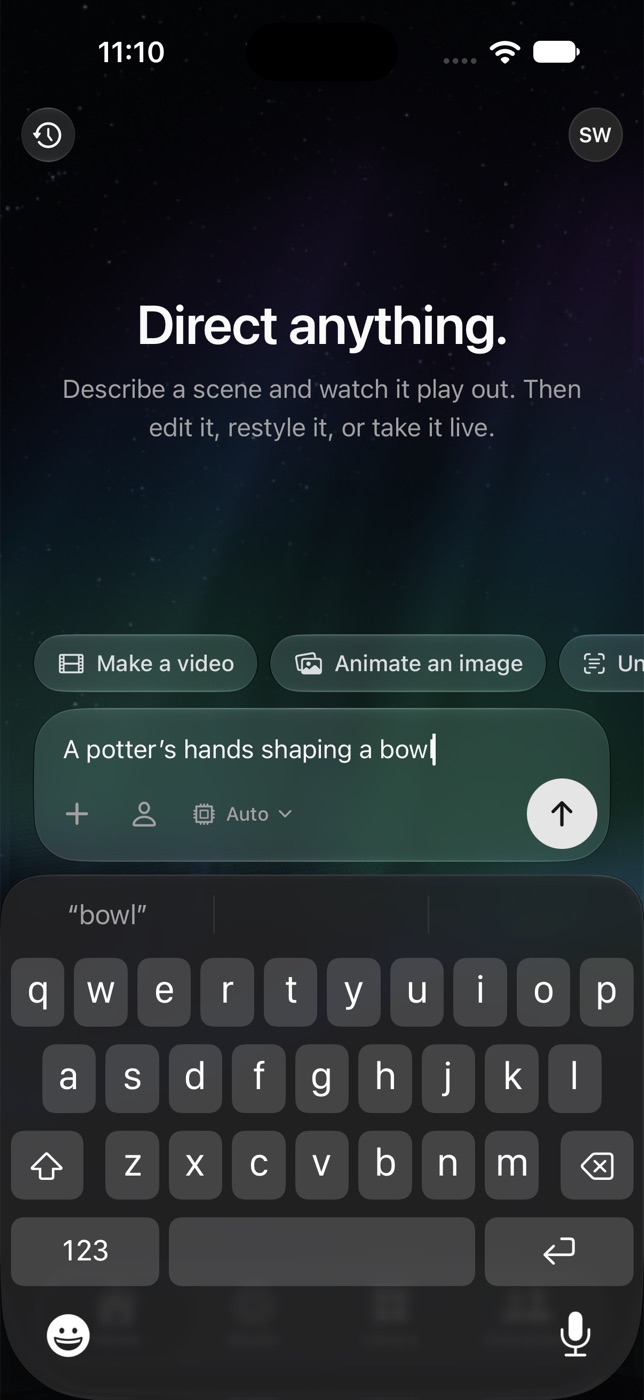
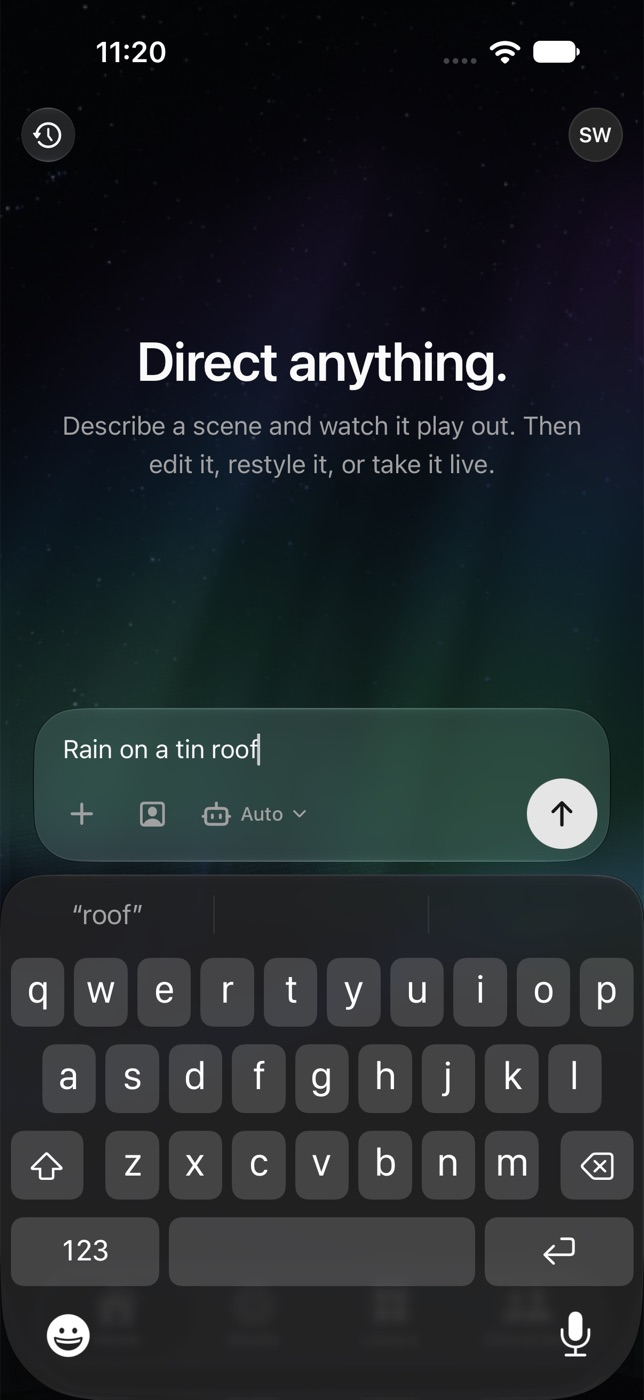
feat(ios): bring the composer up to what a thumb and a text field expect
Controls answer at 44 points, empty space in the composer starts typing,
starting points step aside once there are words, the tool row degrades
instead of clipping, and Command-Return sends.

diff --git a/apps/ios/Livepeer/Features/Composer/Composer.swift b/apps/ios/Livepeer/Features/Composer/Composer.swift
@@ -79,45 +79,59 @@ struct Composer: View {
             .padding(.horizontal, 10)
             .padding(.top, 8)
             .padding(.bottom, 4)
-            // The placeholder can wrap past the field's one line; a tap anywhere on it starts typing.
+            // Any part of the composer that isn't a control starts typing, as a text field would.
             .contentShape(Rectangle())
             .onTapGesture { focused.wrappedValue = true }
 
             // Everything besides words sits under them, as on the web: what to add on the left, send on the right.
-            HStack(spacing: 4) {
-                tool("plus", label: "Attach from your library", action: choices.attach)
-                if choices.casting {
-                    // A portrait in a frame: the character's portrait becomes the first frame of the shot.
-                    tool(draft.cast == nil ? "person.crop.square" : "person.crop.square.fill", label: "Put a character in it", on: draft.cast != nil, action: choices.castCharacter)
-                }
-                if choices.models.count >= 2 { modelMenu }
-                // Parameters appear with intent: only once the request is a video.
-                if draft.isVideo {
-                    Menu {
-                        Picker("Shape", selection: $draft.aspect) {
-                            ForEach(Self.aspects, id: \.self) { Text($0).tag($0) }
-                        }
-                    } label: {
-                        parameter(draft.aspect)
-                    }
-                    .accessibilityLabel("Shape, \(draft.aspect)")
-                    Menu {
-                        Picker("Length", selection: $draft.durationSeconds) {
-                            ForEach(Self.durations, id: \.self) { Text("\(Int($0)) seconds").tag($0) }
-                        }
-                    } label: {
-                        parameter("\(Int(draft.durationSeconds))s")
-                    }
-                    .accessibilityLabel("Length, \(Int(draft.durationSeconds)) seconds")
-                }
-                Spacer(minLength: 0)
-                sendButton
+            // When the row can't hold it all, at a large text size or with a long model name, the model
+            // menu drops to its mark alone rather than anything being cut off.
+            ViewThatFits(in: .horizontal) {
+                tools(modelNamed: true)
+                tools(modelNamed: false)
             }
         }
         .animation(motion(.morph), value: draft.isVideo)
         .animation(motion(.morph), value: draft.attachments.count + (draft.cast == nil ? 0 : 1))
         .padding(8)
         .glass(in: RoundedRectangle(cornerRadius: Radius.sheet, style: .continuous))
+    }
+
+    private func tools(modelNamed: Bool) -> some View {
+        HStack(spacing: 0) {
+            tool("plus", label: "Attach from your library", action: choices.attach)
+            if choices.casting {
+                // A portrait in a frame: the character's portrait becomes the first frame of the shot.
+                tool(draft.cast == nil ? "person.crop.square" : "person.crop.square.fill", label: "Put a character in it", on: draft.cast != nil, action: choices.castCharacter)
+            }
+            if choices.models.count >= 2 { modelMenu(named: modelNamed) }
+            // Parameters appear with intent: only once the request is a video.
+            if draft.isVideo {
+                Menu {
+                    Picker("Shape", selection: $draft.aspect) {
+                        ForEach(Self.aspects, id: \.self) { Text($0).tag($0) }
+                    }
+                } label: {
+                    parameter(draft.aspect)
+                }
+                .accessibilityLabel("Shape, \(draft.aspect)")
+                Menu {
+                    Picker("Length", selection: $draft.durationSeconds) {
+                        ForEach(Self.durations, id: \.self) { Text("\(Int($0)) seconds").tag($0) }
+                    }
+                } label: {
+                    parameter("\(Int(draft.durationSeconds))s")
+                }
+                .accessibilityLabel("Length, \(Int(draft.durationSeconds)) seconds")
+            }
+            Color.clear
+                .frame(minWidth: 4, maxWidth: .infinity)
+                .frame(height: 44)
+                .contentShape(Rectangle())
+                .onTapGesture { focused.wrappedValue = true }
+                .accessibilityHidden(true)
+            sendButton
+        }
     }
 
     /// What to write, given what has been added: a cast asks for a scene, an attachment for a question.
@@ -137,7 +151,7 @@ struct Composer: View {
             Image(systemName: symbol)
                 .font(.system(size: 17, weight: .medium))
                 .foregroundStyle(on ? palette.foreground : palette.mutedForeground)
-                .frame(width: 38, height: 44)
+                .frame(width: 44, height: 44)
                 .contentShape(Rectangle())
         }
         .buttonStyle(PressStyle(round: true))
@@ -145,7 +159,7 @@ struct Composer: View {
     }
 
     /// Which language model runs the agent. It names the one chosen, so nothing else has to.
-    private var modelMenu: some View {
+    private func modelMenu(named: Bool) -> some View {
         Menu {
             Picker("Model", selection: $draft.model) {
                 Text("Auto").tag(String?.none)
@@ -164,12 +178,14 @@ struct Composer: View {
                     .stroke(style: StrokeStyle(lineWidth: 1.8, lineCap: .round, lineJoin: .round))
                     .frame(width: 20, height: 20)
                     .accessibilityHidden(true)
-                Text(chosenModel?.name ?? "Auto").text(.caption, weight: .medium).lineLimit(1)
+                if named {
+                    Text(chosenModel?.name ?? "Auto").text(.caption, weight: .medium).lineLimit(1).fixedSize()
+                }
                 Image(systemName: "chevron.down").font(.system(size: 9, weight: .semibold))
             }
             .foregroundStyle(chosenModel == nil ? palette.mutedForeground : palette.foreground)
-            .padding(.horizontal, 6)
-            .frame(minHeight: 44)
+            .padding(.horizontal, 8)
+            .frame(minWidth: 44, minHeight: 44)
             .contentShape(Rectangle())
         }
         .accessibilityLabel("Model, \(chosenModel?.name ?? "Auto")")
@@ -241,6 +257,8 @@ struct Composer: View {
         }
         .buttonStyle(PressStyle(round: true))
         .disabled(!ready)
+        // With a keyboard attached, Return adds a line and Command-Return sends.
+        .keyboardShortcut(.return, modifiers: .command)
         .sensoryFeedback(.impact(weight: .light), trigger: sending) { _, now in now }
         .accessibilityLabel(sending ? "Sending" : "Send")
     }
@@ -255,6 +273,10 @@ struct Composer: View {
             .frame(minHeight: 32)
             .background(palette.hover, in: Capsule())
             .overlay(Capsule().strokeBorder(palette.hairline, lineWidth: 1))
+            // The pill is 32 tall; what answers a touch is 44, with a little room either side.
+            .padding(.horizontal, 3)
+            .frame(minHeight: 44)
+            .contentShape(Rectangle())
             .transition(.scale(scale: 0.9).combined(with: .opacity))
     }
 }

diff --git a/apps/ios/Livepeer/Features/Home/HomeView.swift b/apps/ios/Livepeer/Features/Home/HomeView.swift
@@ -113,20 +113,24 @@ struct HomeView: View {
                 .transition(.opacity.combined(with: .offset(y: 6)))
             }
 
-            ScrollView(.horizontal) {
-                HStack(spacing: 8) {
-                    ForEach(model.starters, id: \.id) { starter in
-                        Chip(label: starter.label, symbol: Self.starterSymbols[starter.id] ?? "film", selected: model.openStarter == starter.id) {
-                            withAnimation(motion(.morph)) { model.toggle(starter) }
+            // Starting points are for a blank page: once there are words they step aside for them.
+            if model.draft.prompt.isEmpty || model.openStarter != nil {
+                ScrollView(.horizontal) {
+                    HStack(spacing: 8) {
+                        ForEach(model.starters, id: \.id) { starter in
+                            Chip(label: starter.label, symbol: Self.starterSymbols[starter.id] ?? "film", selected: model.openStarter == starter.id) {
+                                withAnimation(motion(.morph)) { model.toggle(starter) }
+                            }
+                            .accessibilityHint("Shows example requests")
                         }
-                        .accessibilityHint("Shows example requests")
                     }
+                    .padding(.horizontal, Composer.inset)
                 }
-                .padding(.horizontal, Composer.inset)
+                .scrollIndicators(.hidden)
+                .scrollClipDisabled() // The chips' shadows fall outside the row.
+                .padding(.horizontal, -Composer.inset)
+                .transition(.opacity)
             }
-            .scrollIndicators(.hidden)
-            .scrollClipDisabled() // The chips' shadows fall outside the row.
-            .padding(.horizontal, -Composer.inset)
 
             if let error = model.sendError {
                 Text(error).text(.caption).foregroundStyle(palette.destructive).transition(.opacity)
@@ -141,6 +145,7 @@ struct HomeView: View {
             }
             .matchedTransitionSource(id: "composer", in: travel)
         }
+        .animation(motion(.morph), value: model.draft.prompt.isEmpty)
         .padding(.horizontal, Composer.inset)
         .padding(.bottom, 8)
     }

diff --git a/docs/design-proposals.md b/docs/design-proposals.md
@@ -108,4 +108,4 @@ brand expression, Inter + Geist Mono, mono logo, 4px rhythm) are unchanged. Scre
 | 99 | **An alert is a pointer, and the console decides whether to show it (Android).** Alerts arrive in three channels in a Console group, named for whoever finds them in the system's settings: Service, Reports, Console sign-ins. Tapping one opens the console's cover; after the match the console is at Status, Jobs on Failed, or Reports. With the console already open and unlocked no banner is shown: Status reads itself again. When alerts were on and no longer reach the phone, Status says so in one line at its foot, above signing out, and the page says what to do. The small icon is a plain bell until a build carries its own instance's mark. | A notification can be read without the fingerprint the console demands, so it carries a place and nothing else. A banner over a screen that already shows the news is noise. What the phone knows for itself isn't a line in Needs you, whose lines are the instance's (decision 69). | `AlertsService`, `AlertChannels`, `Alert`, `ConsoleRoot`, `StatusScreen` | android-console-alerts-stopped-dark.jpg, android-console-status-alerts-stopped-dark.jpg, android-console-alert-shade-dark.jpg, android-console-alert-engine-dark.jpg, android-console-alert-in-front-dark.jpg, android-console-alert-opened-reports-dark.jpg |
 | 100 | **Alerts on iOS are the same page in the system's parts.** The words, the order and the states follow decisions 97 to 99. What differs is what iOS gives: the page is pushed from More with the system's back button; the match is Face ID; the permission question is the system's own alert, asked at the moment alerts are turned on; and the switches take the app's muted tint, as Settings' do, because an ink switch in dark is a white thumb on a white track. On the lock screen and in a banner an alert reads as the instance's name over one sentence. | One product on two platforms. The rule is that green is never on a control, and grey keeps it; legibility decides between grey and ink. | `AlertsView`, `AlertsModel`, `SystemPush`, `MoreView`, `StatusView` | ios-console-more-alerts-dark.jpg, ios-console-alerts-off-dark.jpg, ios-console-alerts-turn-on-dark.jpg, ios-console-alerts-permission-dark.jpg, ios-console-alerts-on-dark.jpg, ios-console-alerts-tested-dark.jpg, ios-console-alerts-on-light.jpg, ios-console-alerts-on-largest-text.jpg, ios-console-alerts-edited-dark.jpg, ios-console-alerts-save-dark.jpg, ios-console-alerts-turn-off-dark.jpg, ios-console-alerts-stopped-dark.jpg, ios-console-status-alerts-stopped-dark.jpg, ios-console-alert-banner-dark.jpg, ios-console-alert-lock-screen-dark.jpg, ios-console-alert-apns-banner-dark.jpg |
 | 101 | **On Android the app shows every alert, under a stack of its own.** The instance sends the words as data and the app turns them into a notification, wherever the app is. Two or more sit under a summary the app posts: a tap on a line opens the console at that line's place, a tap on the stack opens it at Status, and both ask for the fingerprint first. Only the lines make a sound. With the console open in front nothing is shown; with it open behind another app the alert shows. | Left to the system, a stack of alerts got the system's own summary, which opened the user app and cleared the alerts: a tap on the pile led away from the console. An alert is a pointer into the console (decision 99), and so is a pile of them. | `AlertNotifications`, `AlertsService`, `Alert.read`, `fcmMessage` | android-console-alert-stack-dark.jpg, android-console-alert-shade-dark.jpg |
-| 102 | **Mobile (iOS first): Home is the composer's page.** The composer sits at the foot of Home, just above the tab bar and in the same place it has in a conversation, with the starting points in one row directly above it and their examples opening above that. The headline and its line sit alone in the middle; the page does not scroll, and a tap on the open space puts the keyboard away. The example gallery is gone from the phone: the starting points already give example requests, and small cropped stills that don't play showed little of what the product makes. Everything besides words sits under the words, in the web's order: attach, a character, the agent's model by name, then shape and length once the request is a video, with send on the right. This replaces decisions 29, 30 and 41 on iOS. The composer and the chips share the tab bar's inset (21 points) so the three line up. On iOS 26 and later the app's glass is the system's liquid glass, the tab bar's own; earlier versions keep the thin material (decision 35 still holds for Android). The instance's background now runs the full height of the page, dimmed a little towards the foot, so the glass has something to show. With nothing to send, send is a quiet well rather than a faded ink button; while sending it shows a spinner, since a send can't be stopped from there. The character button is a framed portrait (their portrait becomes the first frame) and fills in once someone is cast; theatre masks were tried and dropped as too wide and too literal. The model menu carries a small drawn robot, as on the web: the system's icon set has none, so this is the one exception to decision 28 on iOS. No microphone: the keyboard has its own dictation key. | A phone is used with a thumb, so what you type into belongs where the thumb is, and one thing should hold the page. Asked for by the project owner after comparing with a chat-first reference. | `apps/ios/Livepeer/Features/Home/HomeView.swift`, `Composer.swift` (`RobotMark`, `Composer.inset`), `Design/Components.swift` (`Glass`) | mobile/ios-home-signed-in-dark.jpg, mobile/ios-home-signed-in-light.jpg, mobile/ios-home-starter-dark.jpg, mobile/ios-home-composing-dark.jpg |
+| 102 | **Mobile (iOS first): Home is the composer's page.** The composer sits at the foot of Home, just above the tab bar and in the same place it has in a conversation, with the starting points in one row directly above it and their examples opening above that. The headline and its line sit alone in the middle; the page does not scroll, and a tap on the open space puts the keyboard away. The example gallery is gone from the phone: the starting points already give example requests, and small cropped stills that don't play showed little of what the product makes. Everything besides words sits under the words, in the web's order: attach, a character, the agent's model by name, then shape and length once the request is a video, with send on the right. This replaces decisions 29, 30 and 41 on iOS. The composer and the chips share the tab bar's inset (21 points) so the three line up. On iOS 26 and later the app's glass is the system's liquid glass, the tab bar's own; earlier versions keep the thin material (decision 35 still holds for Android). The instance's background now runs the full height of the page, dimmed a little towards the foot, so the glass has something to show. With nothing to send, send is a quiet well rather than a faded ink button; while sending it shows a spinner, since a send can't be stopped from there. The character button is a framed portrait (their portrait becomes the first frame) and fills in once someone is cast; theatre masks were tried and dropped as too wide and too literal. The model menu carries a small drawn robot, as on the web: the system's icon set has none, so this is the one exception to decision 28 on iOS. No microphone: the keyboard has its own dictation key. The composer follows what a text field and a thumb expect: every control answers a touch at 44 points or more, whatever its drawn size; any part of the composer that isn't a control starts typing; the starting points step aside once there are words and come back when the field is empty; when the tools can't all fit, at a large text size or with a long model name, the model menu drops to its mark alone rather than anything being cut off; and with a keyboard attached Command-Return sends while Return adds a line. | A phone is used with a thumb, so what you type into belongs where the thumb is, and one thing should hold the page. Asked for by the project owner after comparing with a chat-first reference. | `apps/ios/Livepeer/Features/Home/HomeView.swift`, `Composer.swift` (`RobotMark`, `Composer.inset`), `Design/Components.swift` (`Glass`) | mobile/ios-home-signed-in-dark.jpg, mobile/ios-home-signed-in-light.jpg, mobile/ios-home-starter-dark.jpg, mobile/ios-home-composing-dark.jpg |
